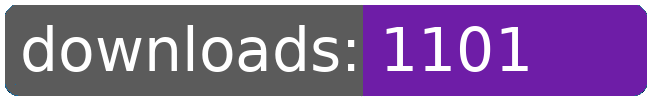
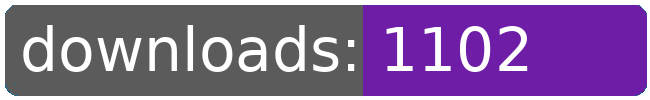
dl log written

Changed region(s): [[0.7692, 0.24, 0.8308, 0.69]]

diff --git a/README.md b/README.md
@@ -21,8 +21,8 @@
 		<td>3147</td>
 		<td>3168</td>
 		<td>3192</td>
-		<td>3206</td>
-		<td>+ 14</td>
+		<td>3209</td>
+		<td>+ 17</td>
 	</tr>
 	<tr>
 		<td>aberrant.kahet.outfitter</td>
@@ -109,8 +109,8 @@
 		<td>1041</td>
 		<td>1062</td>
 		<td>1086</td>
-		<td>1101</td>
-		<td>+ 15</td>
+		<td>1102</td>
+		<td>+ 16</td>
 	</tr>
 	<tr>
 		<td>jumpdrive.extended</td>
@@ -274,8 +274,8 @@
 		<td></td>
 		<td></td>
 		<td></td>
-		<td>44535</td>
-		<td>322</td>
+		<td>44539</td>
+		<td>326</td>
 	</tr>
 </table>
 </sub></sup>
@@ -322,8 +322,8 @@
 		<td>3147</td>
 		<td>3168</td>
 		<td>3192</td>
-		<td>3206</td>
-		<td>+ 14</td>
+		<td>3209</td>
+		<td>+ 17</td>
 	</tr>
 	<tr>
 		<td>capture.archons</td>
@@ -498,8 +498,8 @@
 		<td>1041</td>
 		<td>1062</td>
 		<td>1086</td>
-		<td>1101</td>
-		<td>+ 15</td>
+		<td>1102</td>
+		<td>+ 16</td>
 	</tr>
 	<tr>
 		<td>disable.aberrant.blockade</td>
@@ -553,8 +553,8 @@
 		<td></td>
 		<td></td>
 		<td></td>
-		<td>44535</td>
-		<td>322</td>
+		<td>44539</td>
+		<td>326</td>
 	</tr>
 </table>
 </sub></sup>
